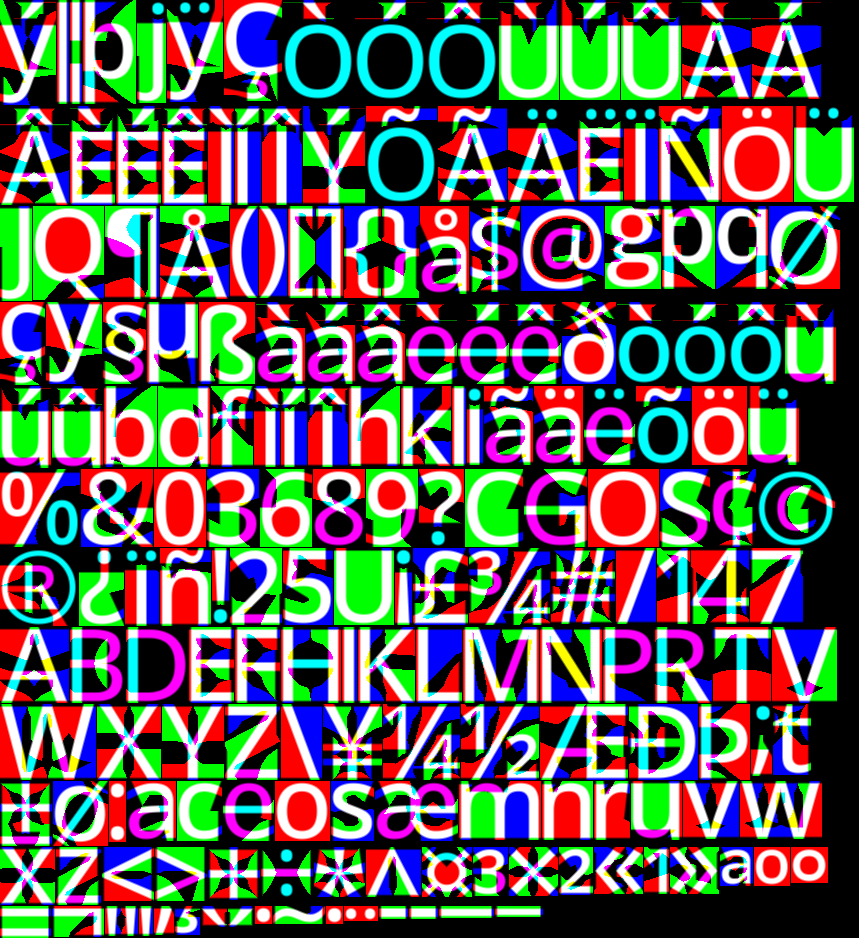
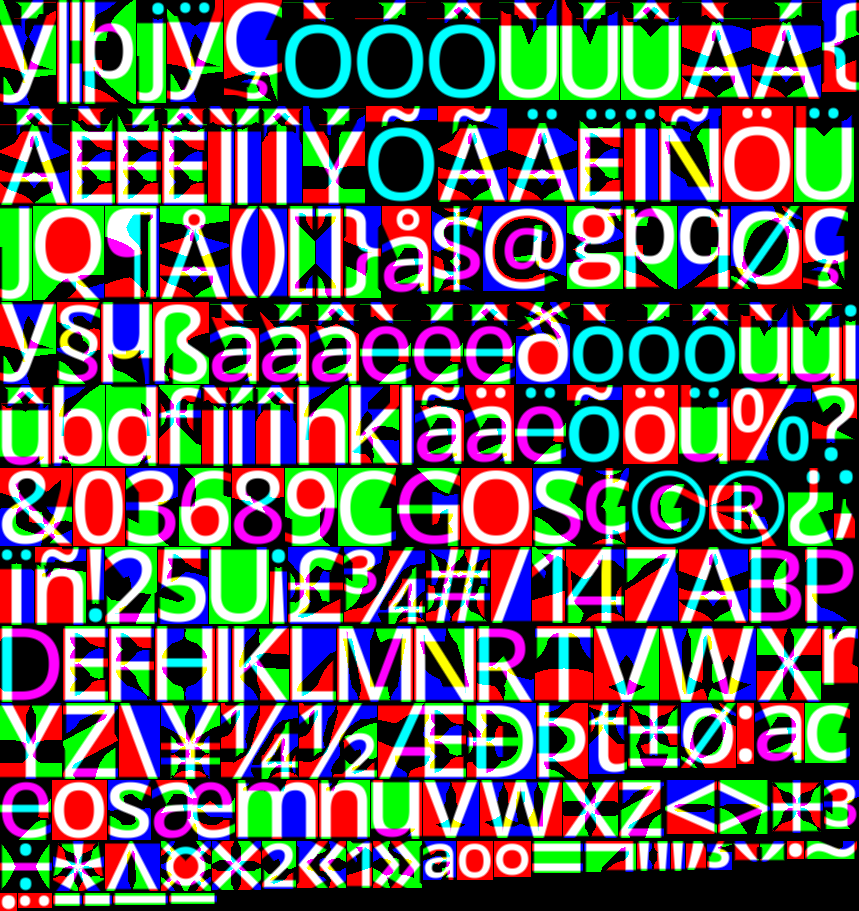
0.2.0

diff --git a/src/atlas/packer.rs b/src/atlas/packer.rs
@@ -1,3 +1,5 @@
+use std::ops::Range;
+
 #[derive(Debug)]
 pub(super) struct PackedRect {
     pub(super) x: usize,
@@ -13,11 +15,11 @@ impl Packer {
     // Padding in px for x and y;
     const PADDING: usize = 1;
 
-    pub(super) fn pack<T>(data: &mut [T], size_fn: impl Fn(&T) -> [usize; 2]) -> Self {
+    pub(super) fn pack<T>(data: &mut Vec<T>, size_fn: impl Fn(&T) -> [usize; 2]) -> Self {
         // Sort by height descending.
         data.sort_by(|a, b| size_fn(b)[1].cmp(&size_fn(a)[1]));
 
-        let sizes: Vec<[usize; 2]> = data.iter().map(|d| size_fn(d)).collect();
+        let mut sizes: Vec<[usize; 2]> = data.iter().map(|d| size_fn(d)).collect();
 
         // Estimate atlas width from total area, but ensure it's at least as wide
         // as the widest single rect to prevent underflow.
@@ -34,15 +36,31 @@ impl Packer {
         let mut next_y_pos = 0;
         let mut actual_width = 0;
 
-        let packed_rects = sizes
-            .into_iter()
-            .map(|size| {
-                let w = size[0];
-                let h = size[1];
+        let packed_rects = (0..sizes.len())
+            .map(|i| {
+                let mut w = sizes[i][0];
+                let mut h = sizes[i][1];
 
                 if x_cursor + w > desired_width {
-                    x_cursor = 0;
-                    y_cursor = next_y_pos;
+                    // Check if there's no other available glyph that fits the space.
+                    let avail_width = desired_width.saturating_sub(x_cursor);
+                    match Self::try_fit(&sizes, avail_width, (i + 1)..sizes.len()) {
+                        // Inserting the new Glyph. (not efficient but fuck it)
+                        Some(idx) => {
+                            let fits = sizes.remove(idx);
+                            sizes.insert(i, fits);
+
+                            let swp = data.remove(idx);
+                            data.insert(i, swp);
+
+                            w = sizes[i][0];
+                            h = sizes[i][1];
+                        }
+                        None => {
+                            x_cursor = 0;
+                            y_cursor = next_y_pos;
+                        }
+                    }
                 }
 
                 let result = PackedRect {
@@ -63,5 +81,30 @@ impl Packer {
             height: next_y_pos.saturating_sub(Self::PADDING),
             rects: packed_rects,
         }
+    }
+
+    fn try_fit(sizes: &[[usize; 2]], avail_width: usize, range: Range<usize>) -> Option<usize> {
+        if avail_width == 0 {
+            return None;
+        }
+
+        let mut best_fit = None;
+        let mut last_area = 0;
+
+        for i in range {
+            let w = sizes[i][0];
+            let h = sizes[i][1];
+
+            if w <= avail_width {
+                let area = w * h;
+
+                if area > last_area {
+                    last_area = area;
+                    best_fit = Some(i);
+                }
+            }
+        }
+
+        best_fit
     }
 }

diff --git a/examples/wgpu.rs b/examples/wgpu.rs
@@ -555,8 +555,9 @@ impl AppCore {
             let mut cursor = [0.0, self.font.ascender * scale];
             let new_line = self.font.line_space * scale;
 
-            include_str!("assets/lorem_ipsum.txt")
-                .chars()
+            (0..0xff)
+                .filter_map(char::from_u32)
+                .chain(include_str!("assets/lorem_ipsum.txt").chars())
                 .filter_map(|c| {
                     if c == ' ' {
                         cursor[0] += self.font.space_advance[0] * scale;

diff --git a/CHANGELOG.md b/CHANGELOG.md
@@ -1,5 +1,8 @@
 # CHANGELOG
 
 ## 0.1.1
+* Improved Atlas packer once again.
+
+## 0.1.1
 * Improved Atlas packer.
 * Remove redundant methods (Vec2Ext).
